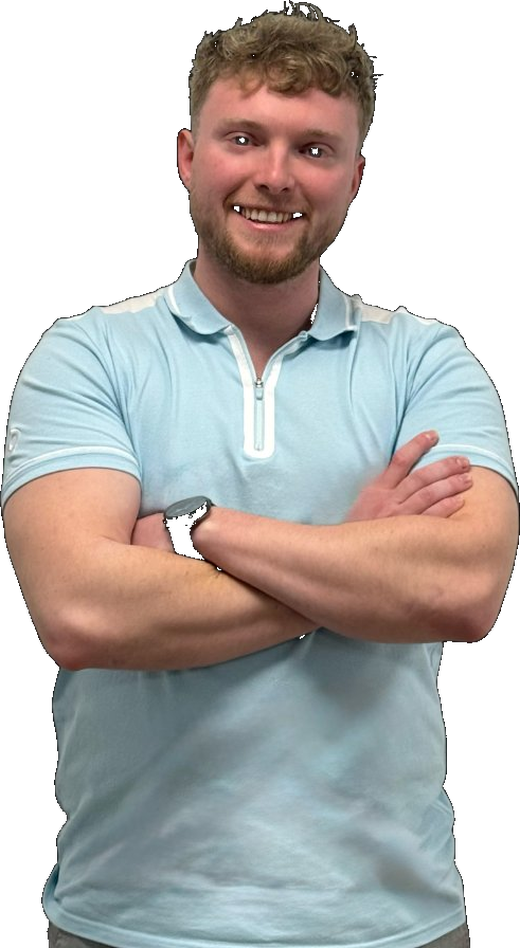
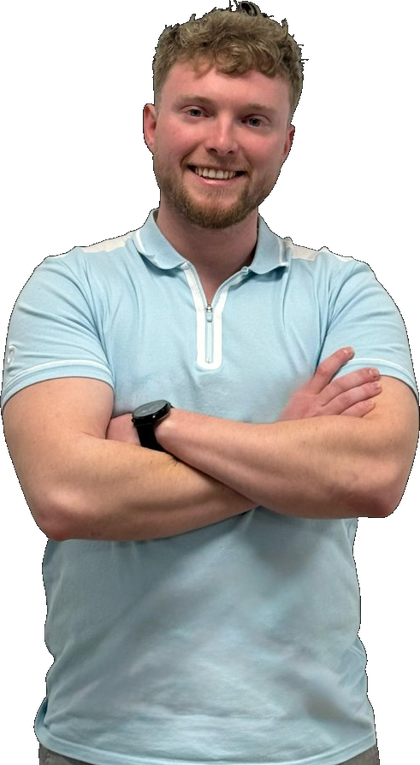
Formations renommées SEO + photo fixée + CTA corrigé

diff --git a/formations-entreprises.html b/formations-entreprises.html
@@ -5,8 +5,8 @@
   <meta name="viewport" content="width=device-width, initial-scale=1.0" />
   <link rel="icon" type="image/png" href="/favicon.png" />
   <title>Formations Entreprises : Vente, Management, IA & Prise de parole | IA-Entrepreneur</title>
-  <meta name="description" content="Formations sur mesure pour entreprises et salariés : prospection, négociation, vente, management, prise de parole en public, IA & automatisation. Intervenant : Gabriel Vanderbecken." />
-  <meta name="keywords" content="formation entreprise vente, formation management équipe, formation prise de parole, formation IA entreprise, formation négociation commerciale" />
+  <meta name="description" content="Formation IA ChatGPT pour entreprises, prospection commerciale, management, techniques de vente et prise de parole. Sur mesure, présentiel ou distanciel. Certification Qualiopi en cours." />
+  <meta name="keywords" content="formation ia entreprise, formation chatgpt entreprise, formation management, formation prospection commerciale, formation négociation commerciale, formation prise de parole en public, formation vente" />
   <link rel="canonical" href="https://ia-entrepreneur.fr/formations-entreprises.html" />
   <meta property="og:title" content="Formations Entreprises sur mesure | IA-Entrepreneur" />
   <meta property="og:description" content="Formations pour entreprises : vente, management, IA, prise de parole. Par Gabriel Vanderbecken." />
@@ -163,7 +163,7 @@
   <div class="page-hero">
     <div class="container">
       <h1>Formations <span class="gradient">sur mesure</span> pour les entreprises</h1>
-      <p>Développez les compétences commerciales, managériales et technologiques de vos équipes avec un formateur-entrepreneur qui applique ce qu'il enseigne.</p>
+      <p>Formations IA, prospection, management et vente pour vos équipes — par un formateur-entrepreneur qui applique ce qu'il enseigne sur le terrain.</p>
     </div>
   </div>
 
@@ -172,9 +172,22 @@
       <div class="formations-grid">
 
         <div class="formation-card">
+          <div class="formation-icon">🤖</div>
+          <h3>IA &amp; ChatGPT pour entreprises</h3>
+          <p>Gagnez du temps au quotidien en intégrant ChatGPT, Claude et les outils IA dans votre activité. Vos équipes apprennent à automatiser les tâches répétitives, rédiger plus vite et prendre de meilleures décisions — sans compétences techniques.</p>
+          <div class="formation-tags">
+            <span class="formation-tag">ChatGPT</span>
+            <span class="formation-tag">Automatisation</span>
+            <span class="formation-tag">Productivité</span>
+            <span class="formation-tag">Prompting</span>
+          </div>
+          <a href="https://calendly.com/gabriel-ia-entrepreneur/decouverte" target="_blank" rel="noopener noreferrer" style="display:inline-flex;align-items:center;gap:6px;margin-top:16px;padding:10px 20px;border-radius:50px;font-size:0.82rem;font-weight:700;color:var(--accent);border:1.5px solid rgba(16,185,129,0.3);transition:all 0.2s;text-decoration:none;" onmouseover="this.style.background='rgba(16,185,129,0.1)';this.style.borderColor='var(--accent)'" onmouseout="this.style.background='transparent';this.style.borderColor='rgba(16,185,129,0.3)'">Demander un devis →</a>
+        </div>
+
+        <div class="formation-card">
           <div class="formation-icon">🎯</div>
-          <h3>Prospection commerciale</h3>
-          <p>Apprenez à identifier vos prospects idéaux, structurer votre approche et générer des rendez-vous qualifiés de manière systématique — en utilisant les outils IA pour accélérer.</p>
+          <h3>Prospection commerciale &amp; IA</h3>
+          <p>Structurez votre prospection et générez des rendez-vous qualifiés grâce aux méthodes terrain et aux outils IA. De l'identification des cibles à la prise de rendez-vous, vos commerciaux apprennent à prospecter plus efficacement.</p>
           <div class="formation-tags">
             <span class="formation-tag">Ciblage</span>
             <span class="formation-tag">LinkedIn</span>
@@ -185,33 +198,9 @@
         </div>
 
         <div class="formation-card">
-          <div class="formation-icon">🤝</div>
-          <h3>Négociation & closing</h3>
-          <p>Maîtrisez les techniques de négociation qui fonctionnent sur le terrain. Apprenez à défendre vos prix, traiter les objections et transformer un "je vais réfléchir" en signature.</p>
-          <div class="formation-tags">
-            <span class="formation-tag">Objections</span>
-            <span class="formation-tag">Closing</span>
-            <span class="formation-tag">Pricing</span>
-          </div>
-          <a href="https://calendly.com/gabriel-ia-entrepreneur/decouverte" target="_blank" rel="noopener noreferrer" style="display:inline-flex;align-items:center;gap:6px;margin-top:16px;padding:10px 20px;border-radius:50px;font-size:0.82rem;font-weight:700;color:var(--accent);border:1.5px solid rgba(16,185,129,0.3);transition:all 0.2s;text-decoration:none;" onmouseover="this.style.background='rgba(16,185,129,0.1)';this.style.borderColor='var(--accent)'" onmouseout="this.style.background='transparent';this.style.borderColor='rgba(16,185,129,0.3)'">Demander un devis →</a>
-        </div>
-
-        <div class="formation-card">
-          <div class="formation-icon">📈</div>
-          <h3>Vente & vente additionnelle</h3>
-          <p>Structurez votre processus de vente de A à Z et apprenez à maximiser la valeur de chaque client grâce à l'upsell et au cross-sell — sans forcer.</p>
-          <div class="formation-tags">
-            <span class="formation-tag">Process de vente</span>
-            <span class="formation-tag">Upsell</span>
-            <span class="formation-tag">Fidélisation</span>
-          </div>
-          <a href="https://calendly.com/gabriel-ia-entrepreneur/decouverte" target="_blank" rel="noopener noreferrer" style="display:inline-flex;align-items:center;gap:6px;margin-top:16px;padding:10px 20px;border-radius:50px;font-size:0.82rem;font-weight:700;color:var(--accent);border:1.5px solid rgba(16,185,129,0.3);transition:all 0.2s;text-decoration:none;" onmouseover="this.style.background='rgba(16,185,129,0.1)';this.style.borderColor='var(--accent)'" onmouseout="this.style.background='transparent';this.style.borderColor='rgba(16,185,129,0.3)'">Demander un devis →</a>
-        </div>
-
-        <div class="formation-card">
           <div class="formation-icon">👥</div>
-          <h3>Management des équipes</h3>
-          <p>Développez votre leadership, apprenez à motiver vos collaborateurs, gérer les conflits et construire une équipe performante et autonome.</p>
+          <h3>Management &amp; leadership</h3>
+          <p>Développez le leadership de vos managers, apprenez-leur à motiver leurs collaborateurs, gérer les conflits et construire une équipe performante et autonome. Formation basée sur l'expérience terrain, pas sur la théorie.</p>
           <div class="formation-tags">
             <span class="formation-tag">Leadership</span>
             <span class="formation-tag">Motivation</span>
@@ -221,9 +210,34 @@
         </div>
 
         <div class="formation-card">
+          <div class="formation-icon">📈</div>
+          <h3>Techniques de vente &amp; closing</h3>
+          <p>Structurez votre processus de vente de A à Z : de la découverte client au closing. Apprenez à maximiser la valeur de chaque client grâce à l'upsell et au cross-sell, défendre vos prix et transformer les objections en opportunités.</p>
+          <div class="formation-tags">
+            <span class="formation-tag">Process de vente</span>
+            <span class="formation-tag">Closing</span>
+            <span class="formation-tag">Upsell</span>
+            <span class="formation-tag">Objections</span>
+          </div>
+          <a href="https://calendly.com/gabriel-ia-entrepreneur/decouverte" target="_blank" rel="noopener noreferrer" style="display:inline-flex;align-items:center;gap:6px;margin-top:16px;padding:10px 20px;border-radius:50px;font-size:0.82rem;font-weight:700;color:var(--accent);border:1.5px solid rgba(16,185,129,0.3);transition:all 0.2s;text-decoration:none;" onmouseover="this.style.background='rgba(16,185,129,0.1)';this.style.borderColor='var(--accent)'" onmouseout="this.style.background='transparent';this.style.borderColor='rgba(16,185,129,0.3)'">Demander un devis →</a>
+        </div>
+
+        <div class="formation-card">
+          <div class="formation-icon">🤝</div>
+          <h3>Négociation commerciale</h3>
+          <p>Maîtrisez les techniques de négociation qui fonctionnent sur le terrain. Apprenez à défendre vos marges, traiter les objections et transformer un "je vais réfléchir" en signature. Méthodes éprouvées sur des deals grands comptes.</p>
+          <div class="formation-tags">
+            <span class="formation-tag">Négociation</span>
+            <span class="formation-tag">Pricing</span>
+            <span class="formation-tag">Grands comptes</span>
+          </div>
+          <a href="https://calendly.com/gabriel-ia-entrepreneur/decouverte" target="_blank" rel="noopener noreferrer" style="display:inline-flex;align-items:center;gap:6px;margin-top:16px;padding:10px 20px;border-radius:50px;font-size:0.82rem;font-weight:700;color:var(--accent);border:1.5px solid rgba(16,185,129,0.3);transition:all 0.2s;text-decoration:none;" onmouseover="this.style.background='rgba(16,185,129,0.1)';this.style.borderColor='var(--accent)'" onmouseout="this.style.background='transparent';this.style.borderColor='rgba(16,185,129,0.3)'">Demander un devis →</a>
+        </div>
+
+        <div class="formation-card">
           <div class="formation-icon">🎤</div>
           <h3>Prise de parole en public</h3>
-          <p>Apprenez à capter l'attention, structurer un message percutant et convaincre votre audience — que ce soit en réunion, en pitch ou en conférence.</p>
+          <p>Apprenez à capter l'attention, structurer un message percutant et convaincre votre audience — que ce soit en réunion, en pitch ou en conférence. Méthode issue de 3 conférences publiques (Go Entrepreneur, France Travail, ECM Nancy).</p>
           <div class="formation-tags">
             <span class="formation-tag">Pitch</span>
             <span class="formation-tag">Storytelling</span>
@@ -232,20 +246,8 @@
           <a href="https://calendly.com/gabriel-ia-entrepreneur/decouverte" target="_blank" rel="noopener noreferrer" style="display:inline-flex;align-items:center;gap:6px;margin-top:16px;padding:10px 20px;border-radius:50px;font-size:0.82rem;font-weight:700;color:var(--accent);border:1.5px solid rgba(16,185,129,0.3);transition:all 0.2s;text-decoration:none;" onmouseover="this.style.background='rgba(16,185,129,0.1)';this.style.borderColor='var(--accent)'" onmouseout="this.style.background='transparent';this.style.borderColor='rgba(16,185,129,0.3)'">Demander un devis →</a>
         </div>
 
-        <div class="formation-card">
-          <div class="formation-icon">🤖</div>
-          <h3>IA & Automatisation</h3>
-          <p>Gagnez 10h par semaine en automatisant vos tâches répétitives. Intégrez ChatGPT, Claude et les outils IA dans votre activité — sans compétences techniques.</p>
-          <div class="formation-tags">
-            <span class="formation-tag">ChatGPT</span>
-            <span class="formation-tag">Automatisation</span>
-            <span class="formation-tag">Productivité</span>
-          </div>
-        </div>
-          <a href="https://calendly.com/gabriel-ia-entrepreneur/decouverte" target="_blank" rel="noopener noreferrer" style="display:inline-flex;align-items:center;gap:6px;margin-top:16px;padding:10px 20px;border-radius:50px;font-size:0.82rem;font-weight:700;color:var(--accent);border:1.5px solid rgba(16,185,129,0.3);transition:all 0.2s;text-decoration:none;" onmouseover="this.style.background='rgba(16,185,129,0.1)';this.style.borderColor='var(--accent)'" onmouseout="this.style.background='transparent';this.style.borderColor='rgba(16,185,129,0.3)'">Demander un devis →</a>
-        </div>
-
       </div>
+    </div>
     </div>
   </section>
 

diff --git a/index.html b/index.html
@@ -394,7 +394,7 @@
       position: relative;
       z-index: 1;
       width: 100%;
-      max-width: 460px;
+      max-width: 380px;
       border-radius: 0;
       object-fit: contain;
       object-position: center bottom;
@@ -1524,7 +1524,7 @@
           </p>
 
           <div class="hero-actions">
-            <a href="#contact" class="btn btn-accent">
+            <a href="#services" class="btn btn-accent">
               Lancer mon entreprise
               <svg width="16" height="16" fill="none" stroke="currentColor" stroke-width="2.5" viewBox="0 0 24 24">
                 <path d="M5 12h14M12 5l7 7-7 7"/>

diff --git a/update_final.py b/update_final.py
@@ -1,0 +1,199 @@
+#!/usr/bin/env python3
+"""
+Mise à jour finale :
+- index.html : CTA → #services, photo réduite
+- formations-entreprises.html : réordonnées + renommées + SEO
+"""
+import re
+
+CALENDLY = "https://calendly.com/gabriel-ia-entrepreneur/decouverte"
+
+# ══════════════════════════════════════════════════════════════
+# INDEX.HTML
+# ══════════════════════════════════════════════════════════════
+
+with open("index.html", "r", encoding="utf-8") as f:
+    html = f.read()
+
+changes = 0
+
+# 1. CTA "Lancer mon entreprise" → #services
+m = re.search(r'href="([^"]*)"([^>]*)>\s*Lancer mon entreprise', html)
+if m and m.group(1) != '#services':
+    html = html.replace(m.group(0), m.group(0).replace(f'href="{m.group(1)}"', 'href="#services"'))
+    changes += 1
+    print(f"✅ CTA Lancer → #services (était {m.group(1)})")
+elif m:
+    print("ℹ  CTA déjà vers #services")
+else:
+    print("⚠  CTA Lancer non trouvé")
+
+# 2. Photo hero taille réduite
+for old_size in ["max-width: 460px;", "max-width: 520px;"]:
+    if old_size in html:
+        html = html.replace(old_size, "max-width: 380px;", 1)
+        changes += 1
+        print(f"✅ Photo hero {old_size} → 380px")
+        break
+
+with open("index.html", "w", encoding="utf-8") as f:
+    f.write(html)
+print(f"🎉 {changes} modifications sur index.html")
+
+# ══════════════════════════════════════════════════════════════
+# FORMATIONS-ENTREPRISES.HTML — Réécriture complète du grid
+# ══════════════════════════════════════════════════════════════
+
+with open("formations-entreprises.html", "r", encoding="utf-8") as f:
+    fe = f.read()
+
+fe_changes = 0
+
+# SEO: Title + meta
+old_titles = [
+    '<title>Formations Entreprises : Vente, Management, IA &amp; Prise de parole | IA-Entrepreneur</title>',
+    '<title>Formation management, vente &amp; prospection pour entreprises | IA-Entrepreneur</title>'
+]
+new_title = '<title>Formation IA entreprise, management &amp; prospection commerciale | IA-Entrepreneur</title>'
+for ot in old_titles:
+    if ot in fe:
+        fe = fe.replace(ot, new_title)
+        fe_changes += 1
+        print("✅ SEO title mis à jour")
+        break
+
+old_descs = [
+    'content="Formations sur mesure pour entreprises et salariés : prospection, négociation, vente, management, prise de parole en public, IA & automatisation. Intervenant : Gabriel Vanderbecken."',
+    'content="Formations professionnelles sur mesure : management des équipes, techniques de vente, prospection commerciale, négociation, prise de parole en public et IA. Certification Qualiopi en cours."'
+]
+new_desc = 'content="Formation IA ChatGPT pour entreprises, prospection commerciale, management, techniques de vente et prise de parole. Sur mesure, présentiel ou distanciel. Certification Qualiopi en cours."'
+for od in old_descs:
+    if od in fe:
+        fe = fe.replace(od, new_desc)
+        fe_changes += 1
+        print("✅ SEO description mise à jour")
+        break
+
+# Keywords
+old_kw = 'content="formation entreprise vente, formation management équipe, formation prise de parole, formation IA entreprise, formation négociation commerciale"'
+new_kw = 'content="formation ia entreprise, formation chatgpt entreprise, formation management, formation prospection commerciale, formation négociation commerciale, formation prise de parole en public, formation vente"'
+if old_kw in fe:
+    fe = fe.replace(old_kw, new_kw)
+    fe_changes += 1
+    print("✅ SEO keywords mis à jour")
+
+# Replace the entire formations-grid content
+new_formations_grid = f'''<div class="formations-grid">
+
+        <div class="formation-card">
+          <div class="formation-icon">🤖</div>
+          <h3>IA &amp; ChatGPT pour entreprises</h3>
+          <p>Gagnez du temps au quotidien en intégrant ChatGPT, Claude et les outils IA dans votre activité. Vos équipes apprennent à automatiser les tâches répétitives, rédiger plus vite et prendre de meilleures décisions — sans compétences techniques.</p>
+          <div class="formation-tags">
+            <span class="formation-tag">ChatGPT</span>
+            <span class="formation-tag">Automatisation</span>
+            <span class="formation-tag">Productivité</span>
+            <span class="formation-tag">Prompting</span>
+          </div>
+          <a href="{CALENDLY}" target="_blank" rel="noopener noreferrer" style="display:inline-flex;align-items:center;gap:6px;margin-top:16px;padding:10px 20px;border-radius:50px;font-size:0.82rem;font-weight:700;color:var(--accent);border:1.5px solid rgba(16,185,129,0.3);transition:all 0.2s;text-decoration:none;" onmouseover="this.style.background='rgba(16,185,129,0.1)';this.style.borderColor='var(--accent)'" onmouseout="this.style.background='transparent';this.style.borderColor='rgba(16,185,129,0.3)'">Demander un devis →</a>
+        </div>
+
+        <div class="formation-card">
+          <div class="formation-icon">🎯</div>
+          <h3>Prospection commerciale &amp; IA</h3>
+          <p>Structurez votre prospection et générez des rendez-vous qualifiés grâce aux méthodes terrain et aux outils IA. De l'identification des cibles à la prise de rendez-vous, vos commerciaux apprennent à prospecter plus efficacement.</p>
+          <div class="formation-tags">
+            <span class="formation-tag">Ciblage</span>
+            <span class="formation-tag">LinkedIn</span>
+            <span class="formation-tag">Emailing</span>
+            <span class="formation-tag">IA</span>
+          </div>
+          <a href="{CALENDLY}" target="_blank" rel="noopener noreferrer" style="display:inline-flex;align-items:center;gap:6px;margin-top:16px;padding:10px 20px;border-radius:50px;font-size:0.82rem;font-weight:700;color:var(--accent);border:1.5px solid rgba(16,185,129,0.3);transition:all 0.2s;text-decoration:none;" onmouseover="this.style.background='rgba(16,185,129,0.1)';this.style.borderColor='var(--accent)'" onmouseout="this.style.background='transparent';this.style.borderColor='rgba(16,185,129,0.3)'">Demander un devis →</a>
+        </div>
+
+        <div class="formation-card">
+          <div class="formation-icon">👥</div>
+          <h3>Management &amp; leadership</h3>
+          <p>Développez le leadership de vos managers, apprenez-leur à motiver leurs collaborateurs, gérer les conflits et construire une équipe performante et autonome. Formation basée sur l'expérience terrain, pas sur la théorie.</p>
+          <div class="formation-tags">
+            <span class="formation-tag">Leadership</span>
+            <span class="formation-tag">Motivation</span>
+            <span class="formation-tag">Gestion de conflits</span>
+          </div>
+          <a href="{CALENDLY}" target="_blank" rel="noopener noreferrer" style="display:inline-flex;align-items:center;gap:6px;margin-top:16px;padding:10px 20px;border-radius:50px;font-size:0.82rem;font-weight:700;color:var(--accent);border:1.5px solid rgba(16,185,129,0.3);transition:all 0.2s;text-decoration:none;" onmouseover="this.style.background='rgba(16,185,129,0.1)';this.style.borderColor='var(--accent)'" onmouseout="this.style.background='transparent';this.style.borderColor='rgba(16,185,129,0.3)'">Demander un devis →</a>
+        </div>
+
+        <div class="formation-card">
+          <div class="formation-icon">📈</div>
+          <h3>Techniques de vente &amp; closing</h3>
+          <p>Structurez votre processus de vente de A à Z : de la découverte client au closing. Apprenez à maximiser la valeur de chaque client grâce à l'upsell et au cross-sell, défendre vos prix et transformer les objections en opportunités.</p>
+          <div class="formation-tags">
+            <span class="formation-tag">Process de vente</span>
+            <span class="formation-tag">Closing</span>
+            <span class="formation-tag">Upsell</span>
+            <span class="formation-tag">Objections</span>
+          </div>
+          <a href="{CALENDLY}" target="_blank" rel="noopener noreferrer" style="display:inline-flex;align-items:center;gap:6px;margin-top:16px;padding:10px 20px;border-radius:50px;font-size:0.82rem;font-weight:700;color:var(--accent);border:1.5px solid rgba(16,185,129,0.3);transition:all 0.2s;text-decoration:none;" onmouseover="this.style.background='rgba(16,185,129,0.1)';this.style.borderColor='var(--accent)'" onmouseout="this.style.background='transparent';this.style.borderColor='rgba(16,185,129,0.3)'">Demander un devis →</a>
+        </div>
+
+        <div class="formation-card">
+          <div class="formation-icon">🤝</div>
+          <h3>Négociation commerciale</h3>
+          <p>Maîtrisez les techniques de négociation qui fonctionnent sur le terrain. Apprenez à défendre vos marges, traiter les objections et transformer un "je vais réfléchir" en signature. Méthodes éprouvées sur des deals grands comptes.</p>
+          <div class="formation-tags">
+            <span class="formation-tag">Négociation</span>
+            <span class="formation-tag">Pricing</span>
+            <span class="formation-tag">Grands comptes</span>
+          </div>
+          <a href="{CALENDLY}" target="_blank" rel="noopener noreferrer" style="display:inline-flex;align-items:center;gap:6px;margin-top:16px;padding:10px 20px;border-radius:50px;font-size:0.82rem;font-weight:700;color:var(--accent);border:1.5px solid rgba(16,185,129,0.3);transition:all 0.2s;text-decoration:none;" onmouseover="this.style.background='rgba(16,185,129,0.1)';this.style.borderColor='var(--accent)'" onmouseout="this.style.background='transparent';this.style.borderColor='rgba(16,185,129,0.3)'">Demander un devis →</a>
+        </div>
+
+        <div class="formation-card">
+          <div class="formation-icon">🎤</div>
+          <h3>Prise de parole en public</h3>
+          <p>Apprenez à capter l'attention, structurer un message percutant et convaincre votre audience — que ce soit en réunion, en pitch ou en conférence. Méthode issue de 3 conférences publiques (Go Entrepreneur, France Travail, ECM Nancy).</p>
+          <div class="formation-tags">
+            <span class="formation-tag">Pitch</span>
+            <span class="formation-tag">Storytelling</span>
+            <span class="formation-tag">Confiance</span>
+          </div>
+          <a href="{CALENDLY}" target="_blank" rel="noopener noreferrer" style="display:inline-flex;align-items:center;gap:6px;margin-top:16px;padding:10px 20px;border-radius:50px;font-size:0.82rem;font-weight:700;color:var(--accent);border:1.5px solid rgba(16,185,129,0.3);transition:all 0.2s;text-decoration:none;" onmouseover="this.style.background='rgba(16,185,129,0.1)';this.style.borderColor='var(--accent)'" onmouseout="this.style.background='transparent';this.style.borderColor='rgba(16,185,129,0.3)'">Demander un devis →</a>
+        </div>
+
+      </div>'''
+
+# Find and replace the entire formations-grid
+grid_pattern = r'<div class="formations-grid">.*?</div>\s*</div>\s*</div>'
+# This is tricky because of nested divs. Let me use a different approach.
+grid_start_marker = '<div class="formations-grid">'
+grid_end_marker = '</div>\n    </div>\n  </section>'
+
+if grid_start_marker in fe:
+    start = fe.index(grid_start_marker)
+    # Find the section end after the grid
+    end = fe.index(grid_end_marker, start)
+    
+    fe = fe[:start] + new_formations_grid + '\n    ' + fe[end:]
+    fe_changes += 1
+    print("✅ Formations réordonnées + renommées (IA 1er, SEO optimisé)")
+else:
+    print("⚠  formations-grid non trouvé")
+
+# Update the hero subtitle to mention IA first
+old_hero_sub = "Développez les compétences commerciales, managériales et technologiques de vos équipes avec un formateur-entrepreneur qui applique ce qu'il enseigne."
+new_hero_sub = "Formations IA, prospection, management et vente pour vos équipes — par un formateur-entrepreneur qui applique ce qu'il enseigne sur le terrain."
+if old_hero_sub in fe:
+    fe = fe.replace(old_hero_sub, new_hero_sub)
+    fe_changes += 1
+    print("✅ Hero subtitle mis à jour (IA en premier)")
+
+# Update formation tabs if they exist (from earlier scripts)
+# Clean up any leftover tab references
+fe = fe.replace('ftab-active', '')
+
+with open("formations-entreprises.html", "w", encoding="utf-8") as f:
+    f.write(fe)
+
+print(f"🎉 {fe_changes} modifications sur formations-entreprises.html")
+print(f"\n👉 Copie aussi gabriel-hero.png (nouvelle version sans yeux transparents)")
+print("   👉 git add . && git commit -m 'Formations renommées SEO + photo fixée + CTA corrigé' && git push")
